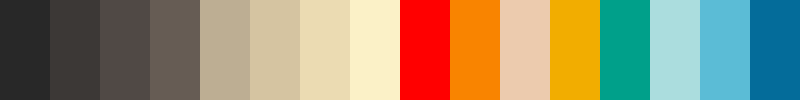
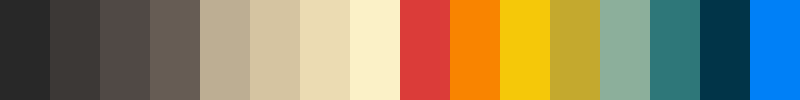
changed darjeeling to be more true to the movie

diff --git a/README.md b/README.md
@@ -10,3 +10,12 @@ the movies by the director Wes Anderson.
 ![Asteroid City screenshot](asteroid-city-screen.png)
 ![Asteroid City preview](asteroid-city-preview.png)
 
+## Bottle Rocket (1996)
+
+![Bottle Rocket screenshot](bottle-rocket-screen.png)
+![Bottle Rocket preview](bottle-rocket.preview.png)
+
+## Darjeeling Limited (2007)
+
+![Darjeeling LImited screenshot](darjeeling-limited-screen.png)
+![Darjeeling LImited preview](darjeeling-limited-preview.png)
